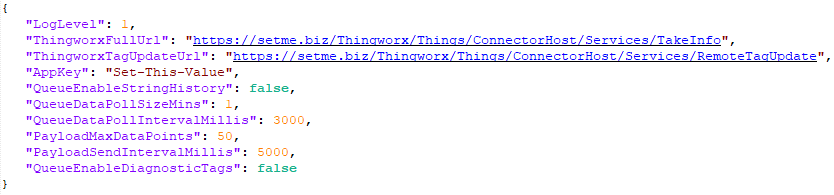
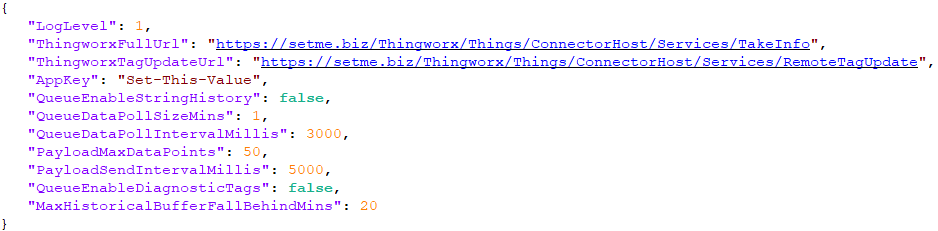
Update README.md
Update readme to include documentation
for the MaxHistoricalBufferFallBehindMins
configuration option.

Changed region(s): [[0.0312, 0.0923, 0.9976, 0.9231], [0.0, 0.9231, 0.0312, 1.0], [0.0, 0.0308, 0.0312, 0.0615]]

diff --git a/README.md b/README.md
@@ -400,6 +400,9 @@ Optional parameter to control the interval at which data payloads are sent to Th
 #### Thingworx Tag Update URL
 Optional parameter which is used to set the URL for the custom tag update functionality service described in the [Tag Updates from Thingworx](#tag-updates-from-thingworx) section.
 
+#### Max Historical Buffer Fall Behind Mins
+Optional parameter to control the maximum number of minute(s) which the historical data queue can fall behind by. If the queue falls behind by this amount, only data points which are within the maximum fall behind time will be sent to Thingworx. If no value is specified in the configuration file, the value will be read from CONNECTOR_CONFIG_DEFAULT_MAX_HIST_BUF_FALL_BEHIND_MINS from "src/main/java/com/hms_networks/americas/sc/thingworx/TWConnectorConsts.java". This functionality may be disabled by setting the value to -1.
+
 ### Telemetry
 
 #### Data Source
